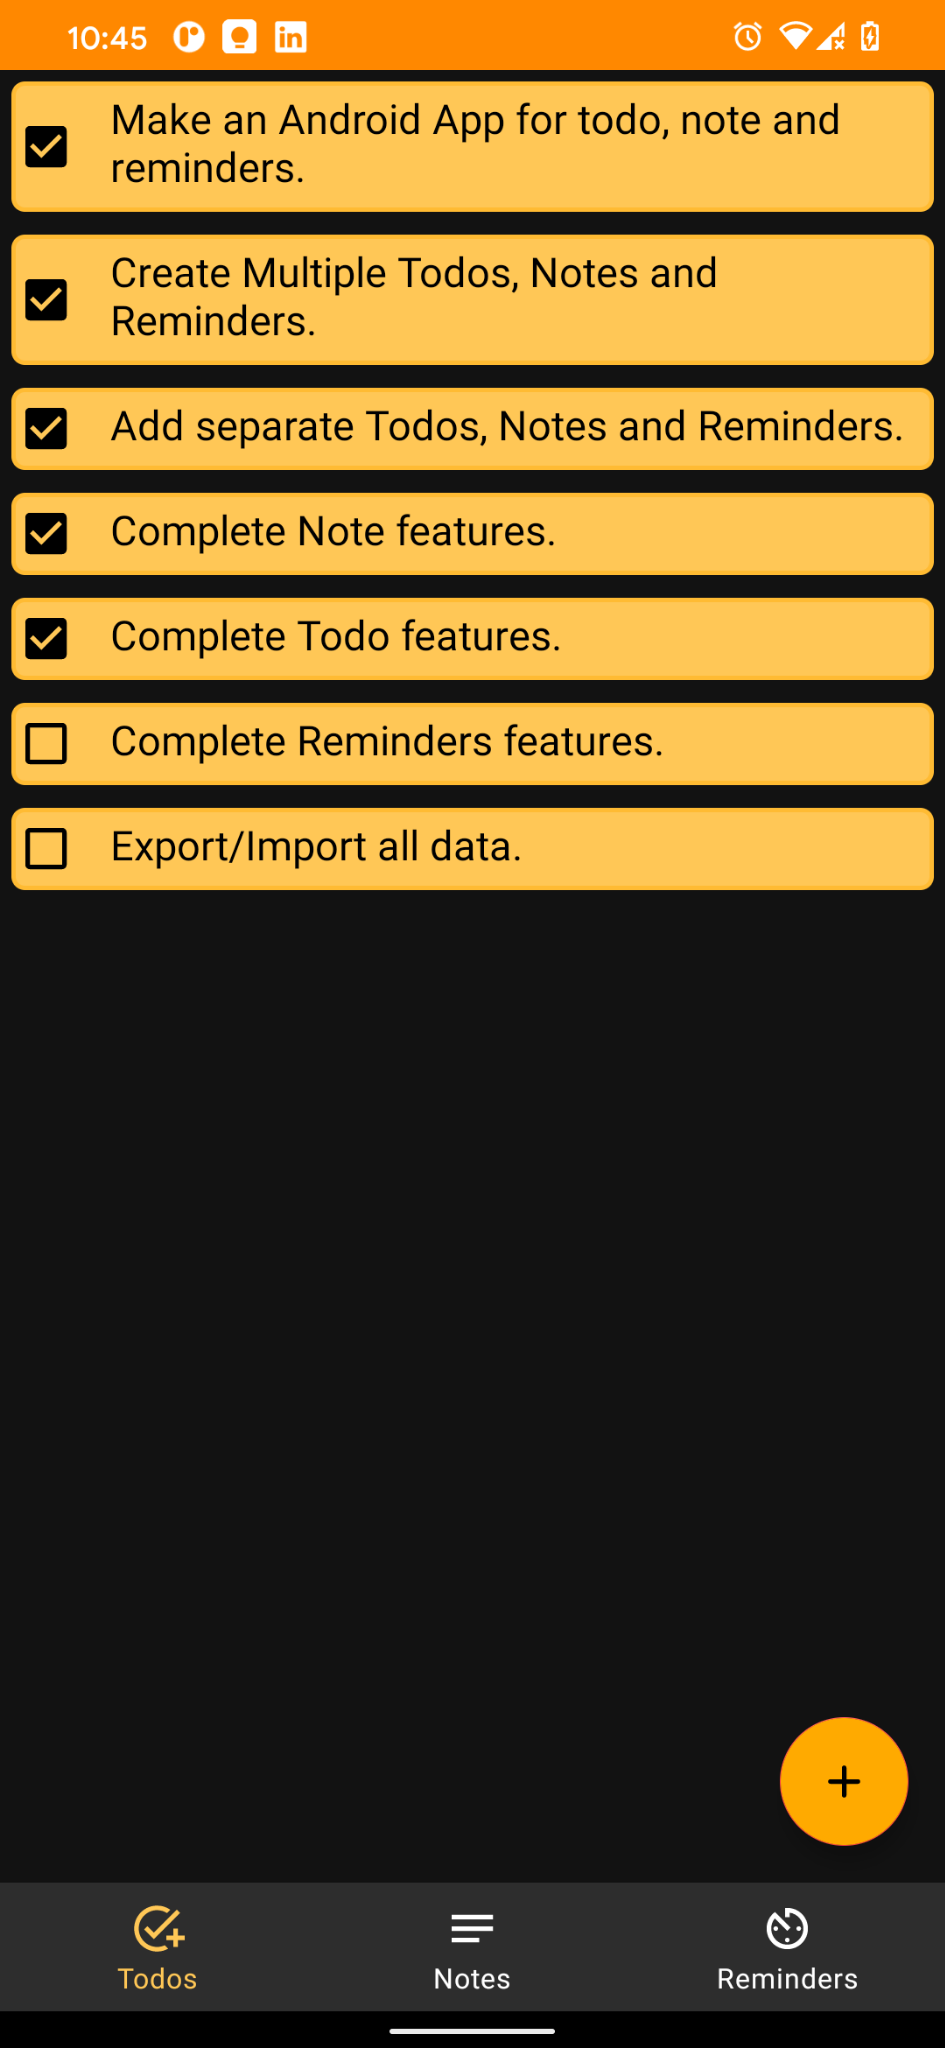
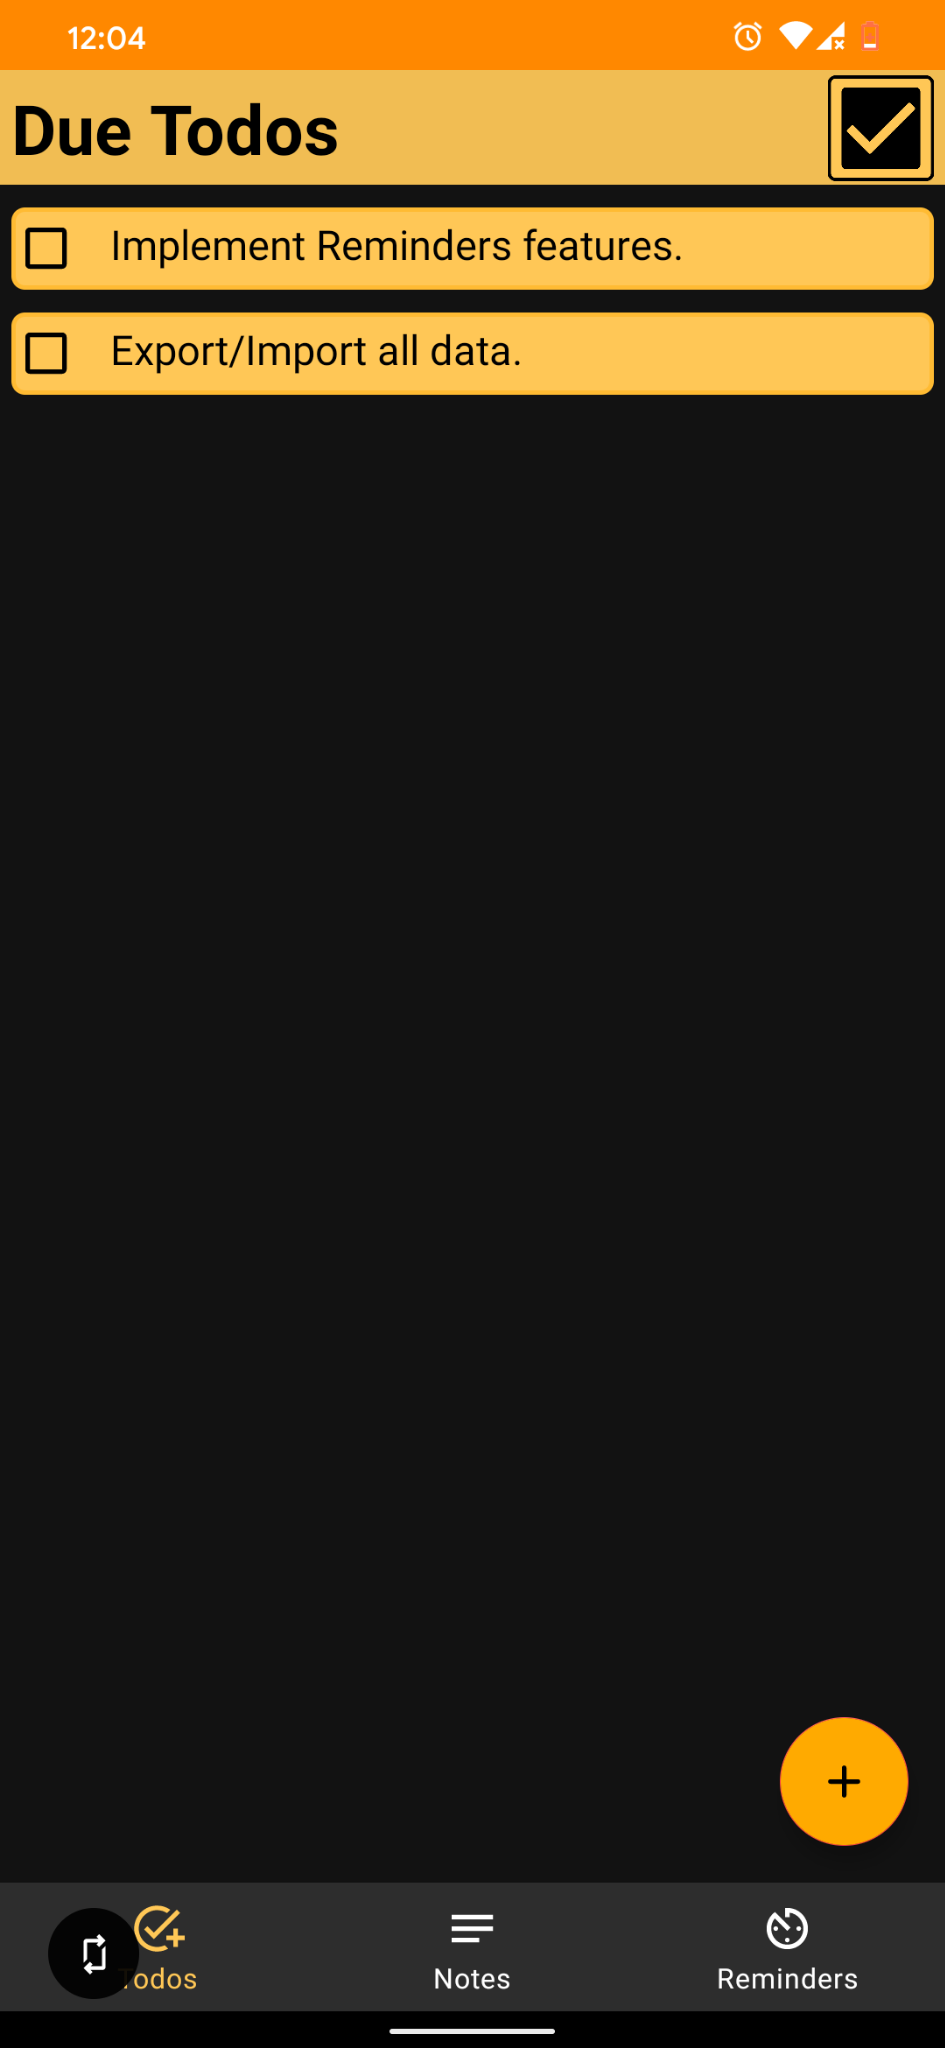
Separate due and completed todos

Changed region(s): [[0.0, 0.0, 1.0, 0.4375], [0.0307, 0.9062, 0.1534, 1.0]]

diff --git a/app/src/main/java/com/asifsanjary/myapplication/todo_view/TodosListFragment.java b/app/src/main/java/com/asifsanjary/myapplication/todo_view/TodosListFragment.java
@@ -14,14 +14,14 @@ import android.util.Log;
 import android.view.LayoutInflater;
 import android.view.View;
 import android.view.ViewGroup;
+import android.widget.ImageButton;
 
 import com.asifsanjary.myapplication.R;
 import com.asifsanjary.myapplication.note_view.NoteEditorActivity;
+import com.asifsanjary.myapplication.todo_view.completed_todos_view.CompletedTodoActivity;
 import com.google.android.material.floatingactionbutton.FloatingActionButton;
 
 public class TodosListFragment extends Fragment {
-
-    private TodoViewModel todoViewModel;
     private static final String TAG = TodosListFragment.class.getSimpleName();
 
     public TodosListFragment() {}
@@ -48,10 +48,12 @@ public class TodosListFragment extends Fragment {
     }
 
     private void initView(View view) {
-        todoViewModel = new ViewModelProvider(this).get(TodoViewModel.class);
+        FloatingActionButton addNewTodoButton = view.findViewById(R.id.add_new_todo_fab);
+        ImageButton seeCompletedTodoButton = view.findViewById(R.id.todos_list_action_see_completed_tasks);
+        RecyclerView recyclerView = view.findViewById(R.id.todos_list_recyclerview);
+        TodoViewModel todoViewModel = new ViewModelProvider(this).get(TodoViewModel.class);
         todoViewModel.initViewModel(view.getContext());
 
-        RecyclerView recyclerView = view.findViewById(R.id.todos_list_recyclerview);
         final TodosListAdapter adapter = new TodosListAdapter(new TodosListAdapter.TodoDiff(), (v, todo) -> {
             // TODO: Add New / Edit / Mark Complete - Incomplete ToDo
 
@@ -68,16 +70,19 @@ public class TodosListFragment extends Fragment {
 
 //            startActivity(intent);
         });
+
         recyclerView.setAdapter(adapter);
         recyclerView.setLayoutManager(new LinearLayoutManager(getContext()));
 
-        todoViewModel.getAllTodos().observe(getViewLifecycleOwner(), adapter::submitList);
+        todoViewModel.getAllUncompletedTodos().observe(getViewLifecycleOwner(), adapter::submitList);
 
-        FloatingActionButton fab = view.findViewById(R.id.add_new_todo_fab);
-
-        fab.setOnClickListener(v -> {
-            // TODO: Add New ToDo
+        addNewTodoButton.setOnClickListener(v -> {
             Intent intent = new Intent(v.getContext(), TodosEditorActivity.class);
+            startActivity(intent);
+        });
+
+        seeCompletedTodoButton.setOnClickListener(v -> {
+            Intent intent = new Intent(v.getContext(), CompletedTodoActivity.class);
             startActivity(intent);
         });
     }

diff --git a/app/src/main/java/com/asifsanjary/myapplication/todo_view/completed_todos_view/CompletedTodoActivity.java b/app/src/main/java/com/asifsanjary/myapplication/todo_view/completed_todos_view/CompletedTodoActivity.java
@@ -1,0 +1,61 @@
+package com.asifsanjary.myapplication.todo_view.completed_todos_view;
+
+import androidx.appcompat.app.AppCompatActivity;
+import androidx.lifecycle.ViewModelProvider;
+import androidx.recyclerview.widget.LinearLayoutManager;
+import androidx.recyclerview.widget.RecyclerView;
+
+import android.content.Intent;
+import android.os.Bundle;
+import android.util.Log;
+
+import com.asifsanjary.myapplication.R;
+import com.asifsanjary.myapplication.todo_view.TodoViewModel;
+import com.asifsanjary.myapplication.todo_view.TodosEditorActivity;
+import com.asifsanjary.myapplication.todo_view.TodosListAdapter;
+
+public class CompletedTodoActivity extends AppCompatActivity {
+
+    private static final String TAG = CompletedTodoActivity.class.getSimpleName();
+
+    @Override
+    protected void onCreate(Bundle savedInstanceState) {
+        super.onCreate(savedInstanceState);
+        setContentView(R.layout.activity_completed_todo);
+
+        if(getSupportActionBar() != null) {
+            getSupportActionBar().show();
+            getSupportActionBar().setTitle("Completed Tasks");
+        }
+
+        initView();
+    }
+
+    private void initView() {
+        RecyclerView recyclerView = findViewById(R.id.completed_todos_list_recyclerview);
+        TodoViewModel todoViewModel = new ViewModelProvider(this).get(TodoViewModel.class);
+        todoViewModel.initViewModel(getApplicationContext());
+
+        final TodosListAdapter adapter = new TodosListAdapter(new TodosListAdapter.TodoDiff(), (v, todo) -> {
+            // TODO: Add New / Edit / Mark Complete - Incomplete ToDo
+
+            todoViewModel.updateTodo(todo);
+
+            Intent intent = new Intent(v.getContext(), TodosEditorActivity.class);
+
+            Log.d(TAG, todo.uid + " "+ todo.toDoText);
+
+            Bundle bundle = new Bundle();
+            bundle.putInt(TodosEditorActivity.TODO_ID_KEY, todo.uid);
+            bundle.putString(TodosEditorActivity.TODO_TEXT_KEY, todo.toDoText);
+            intent.putExtra(TodosEditorActivity.TODO_KEY, bundle);
+
+//            startActivity(intent);
+        });
+
+        recyclerView.setAdapter(adapter);
+        recyclerView.setLayoutManager(new LinearLayoutManager(getApplicationContext()));
+
+        todoViewModel.getAllCompletedTodos().observe(this, adapter::submitList);
+    }
+}

diff --git a/app/src/main/java/com/asifsanjary/myapplication/repository/Repository.java b/app/src/main/java/com/asifsanjary/myapplication/repository/Repository.java
@@ -17,6 +17,8 @@ public class Repository {
     private TodoDao todoDao;
     private LiveData<List<Note>> noteList;
     private LiveData<List<Todo>> todoList;
+    private LiveData<List<Todo>> completedTodoList;
+    private LiveData<List<Todo>> incompleteTodoList;
 
     private Repository(Context context) {
         initDb(context);
@@ -41,10 +43,20 @@ public class Repository {
         todoDao = db.todoDao();
         noteList = noteDao.getAllNotes();
         todoList = todoDao.getTodoList();
+        completedTodoList = todoDao.getAllCompletedTodos();
+        incompleteTodoList = todoDao.getAllIncompleteTodos();
     }
 
     public LiveData<List<Todo>> getTodoList() {
         return todoList;
+    }
+
+    public LiveData<List<Todo>> getCompletedTodoList() {
+        return completedTodoList;
+    }
+
+    public LiveData<List<Todo>> getAllIncompleteTodos() {
+        return incompleteTodoList;
     }
 
     public void insertTodo(Todo todo) {

diff --git a/app/src/main/java/com/asifsanjary/myapplication/todo_view/TodoViewModel.java b/app/src/main/java/com/asifsanjary/myapplication/todo_view/TodoViewModel.java
@@ -14,13 +14,21 @@ public class TodoViewModel extends ViewModel {
     private Repository repository;
 
     private LiveData<List<Todo>> allTodos;
+    private LiveData<List<Todo>> allCompletedTodos;
+    private LiveData<List<Todo>> allUncompletedTodos;
 
     public void initViewModel (Context context) {
         repository = Repository.getRepositoryInstance(context);
         allTodos = repository.getTodoList();
+        allCompletedTodos = repository.getCompletedTodoList();
+        allUncompletedTodos = repository.getAllIncompleteTodos();
     }
 
     public LiveData<List<Todo>> getAllTodos() { return allTodos; }
+
+    public LiveData<List<Todo>> getAllCompletedTodos() { return allCompletedTodos; }
+
+    public LiveData<List<Todo>> getAllUncompletedTodos() { return allUncompletedTodos; }
 
     public void insertTodo(Todo todo) { repository.insertTodo(todo); }
 

diff --git a/app/src/main/java/com/asifsanjary/myapplication/repository/database/TodoDao.java b/app/src/main/java/com/asifsanjary/myapplication/repository/database/TodoDao.java
@@ -20,9 +20,13 @@ public interface TodoDao {
     LiveData<List<Todo>> getTodoList();
 
     @Query("SELECT * FROM todo WHERE uid IN (:todoIds)")
-    LiveData<List<Todo>> loadAllTodosByIds(int[] todoIds); // TODO : should return only 1
+    LiveData<List<Todo>> getAllTodosByIds(int[] todoIds);
 
-    // TODO: filter by completeness of todo
+    @Query("SELECT * FROM todo WHERE is_todo_complete = 1")
+    LiveData<List<Todo>> getAllCompletedTodos();
+
+    @Query("SELECT * FROM todo WHERE is_todo_complete = 0")
+    LiveData<List<Todo>> getAllIncompleteTodos();
 
     @Query("SELECT * FROM todo WHERE todo_text LIKE :text LIMIT 1")
     Todo findTodosByText(String text);

diff --git a/app/src/main/java/com/asifsanjary/myapplication/MainActivity.java b/app/src/main/java/com/asifsanjary/myapplication/MainActivity.java
@@ -22,6 +22,10 @@ public class MainActivity extends AppCompatActivity {
         super.onCreate(savedInstanceState);
         setContentView(R.layout.activity_main);
 
+        if(getSupportActionBar() != null) {
+            getSupportActionBar().hide();
+        }
+
         initView();
         /*
         TODO: Handle Connection with Server and Sync Text before going to edit text

diff --git a/README.md b/README.md
@@ -8,9 +8,12 @@ An Android App to manage your Todo-List, Notes and Reminders.
 
 ## Here is the current screenshot of the development.
 
-|                                To-Do List                                 |                                Notes List                                 |                                Note Editor                                 |
-| :-----------------------------------------------------------------------: | :-----------------------------------------------------------------------: | :------------------------------------------------------------------------: |
-| ![Alt text](./AppScreenshots/todo_list_page.png "To-Do List") | ![Alt text](./AppScreenshots/note_list_page.png "Notes List") | ![Alt text](./AppScreenshots/Screenshot_20210614-005407.png "Note Editor") |
+|                                                                  |                                                                 |
+| :-----------------------------------------------------------------------: | :-----------------------------------------------------------------------: |
+| Due To-Do List | Completed To-do List |
+| ![Alt text](./AppScreenshots/todo_list_page.png "To-Do List") | ![Alt text](./AppScreenshots/completed_todo_list_page.png "Completed To-do List") |
+| Notes List | Note Editor |
+| ![Alt text](./AppScreenshots/note_list_page.png "Notes List") | ![Alt text](./AppScreenshots/Screenshot_20210614-005407.png "Note Editor") |
 
 ## Android Stack
 
